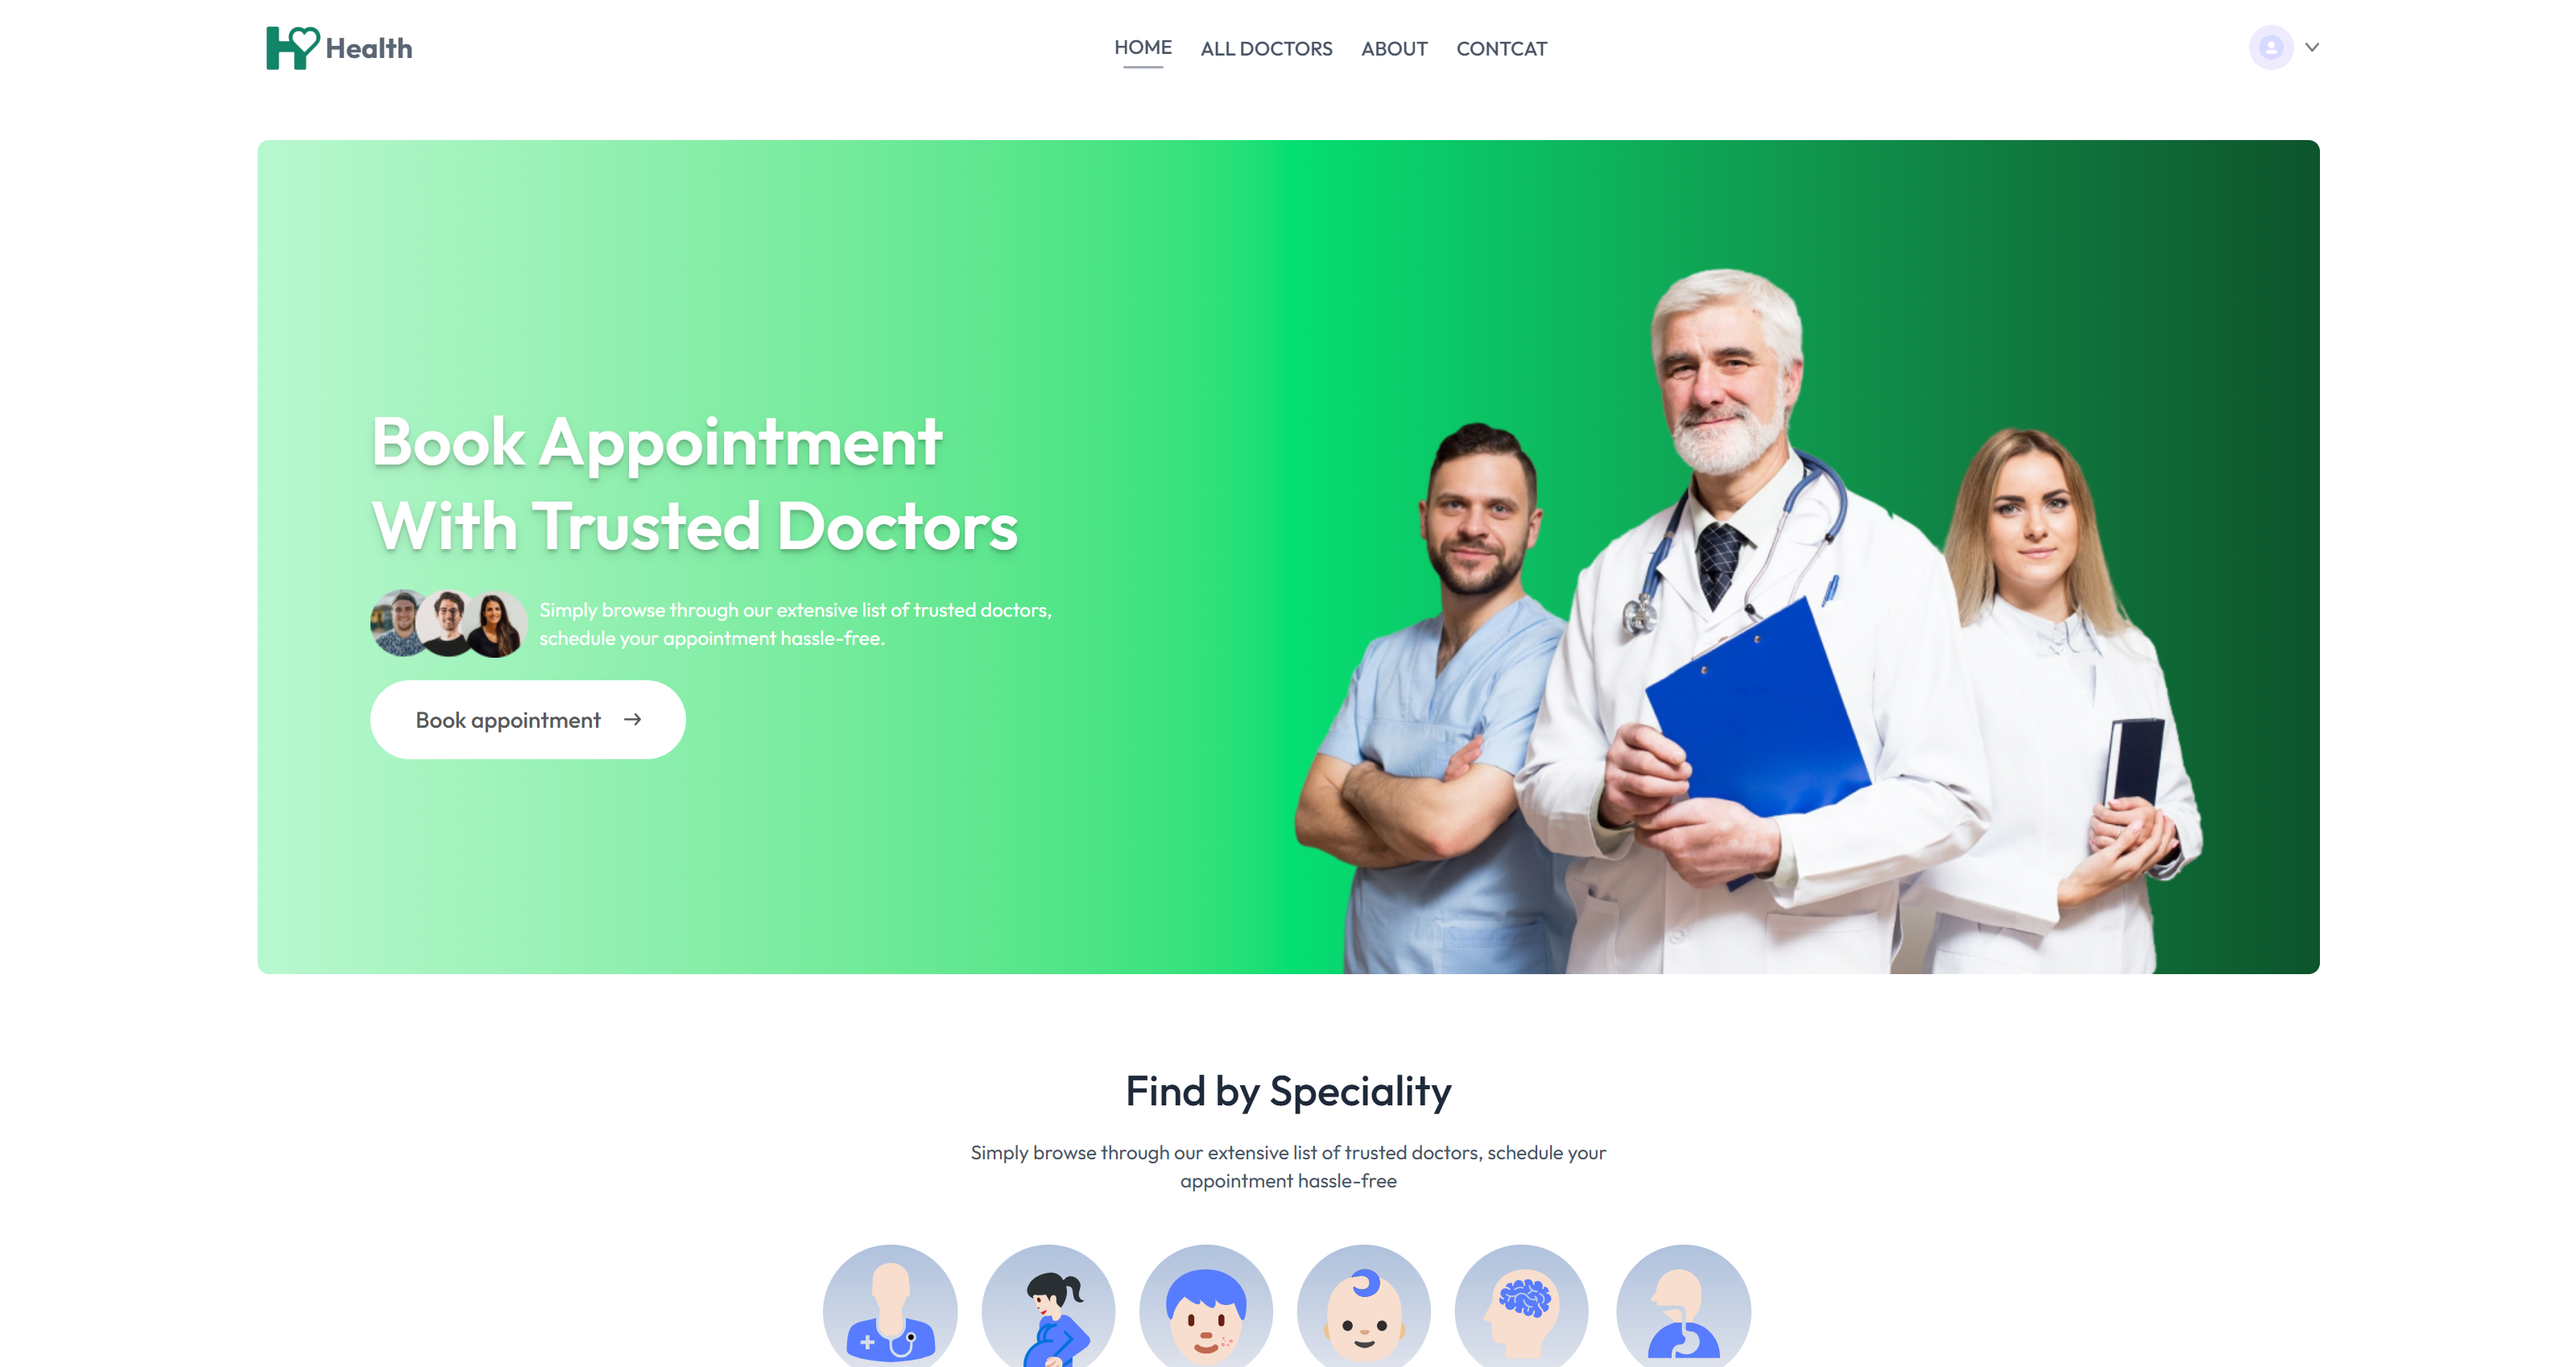
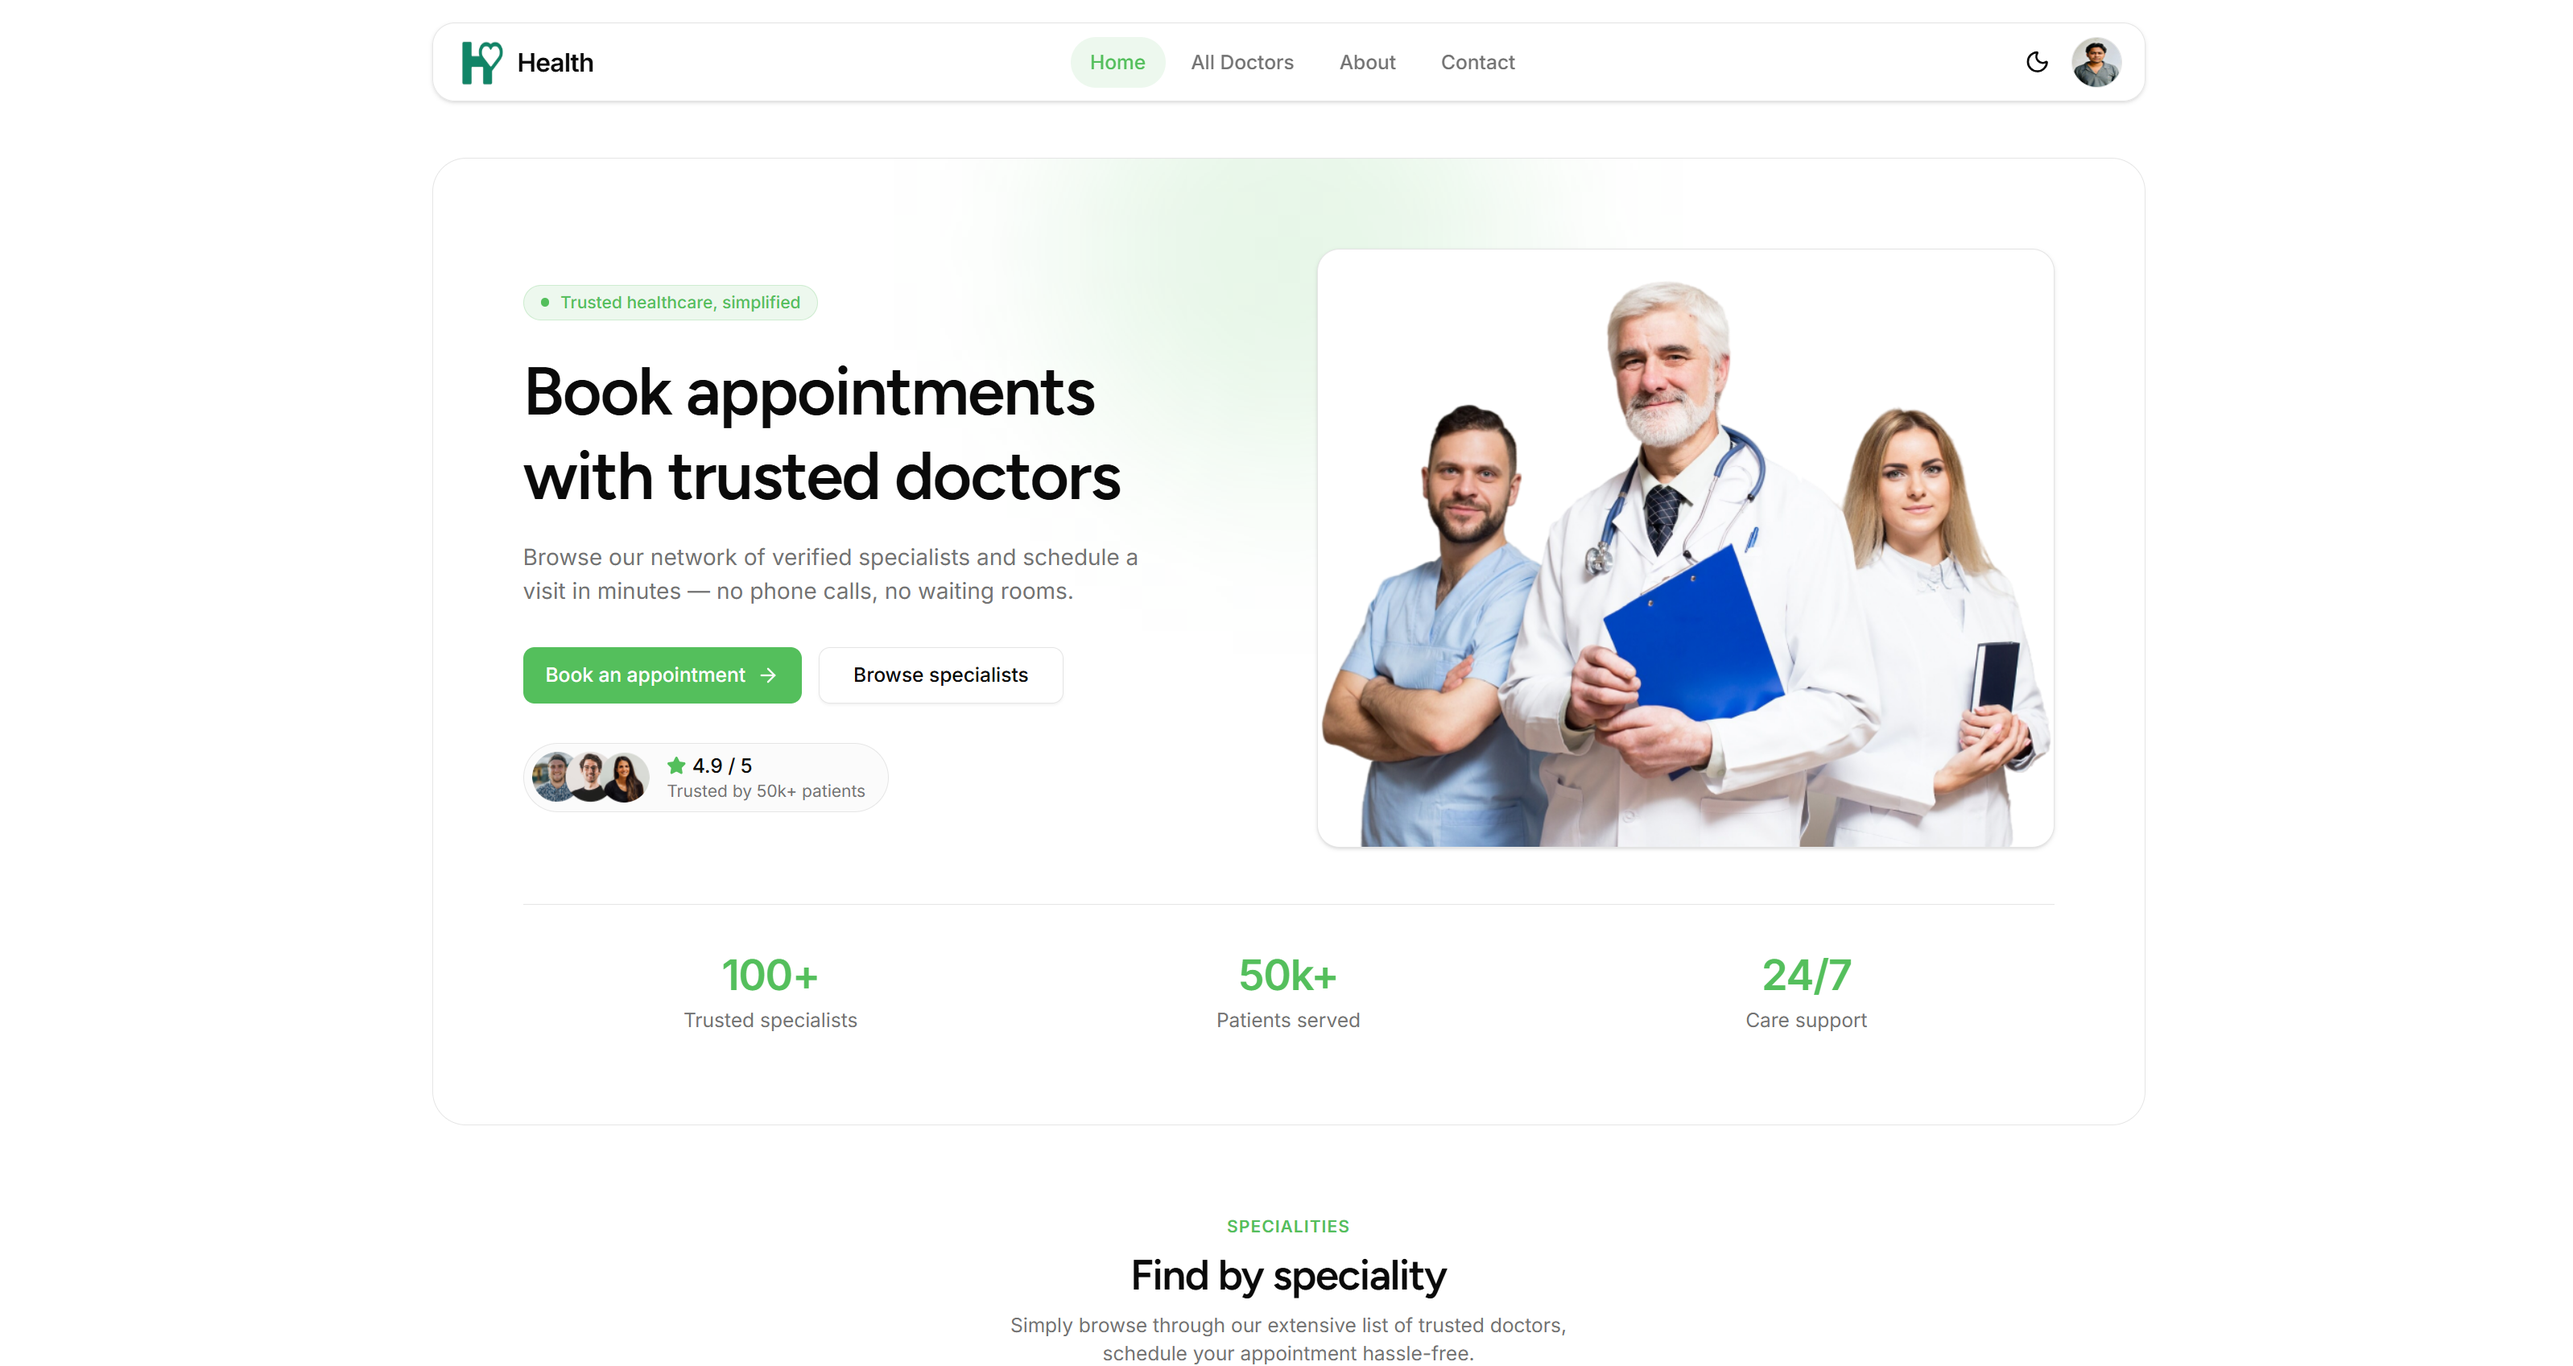
fix(projects): update demo URL for project 2

diff --git a/src/data/projects.ts b/src/data/projects.ts
@@ -32,7 +32,7 @@ export const projects: Project[] = [
     description:
       "Full-stack doctor appointment booking system with role-based dashboards, JWT auth, and Razorpay payment integration.",
     image: "/projects/project-2.png",
-    demoUrl: "https://health-frontend-c4x4.onrender.com",
+    demoUrl: "https://health-blond-tau.vercel.app",
     sourceUrl: "https://github.com/Arijit-mondal099/health",
   },
   {
